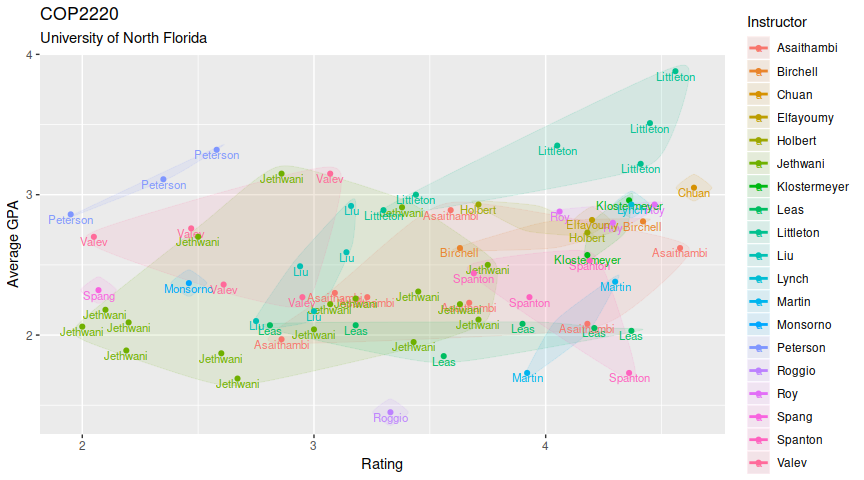
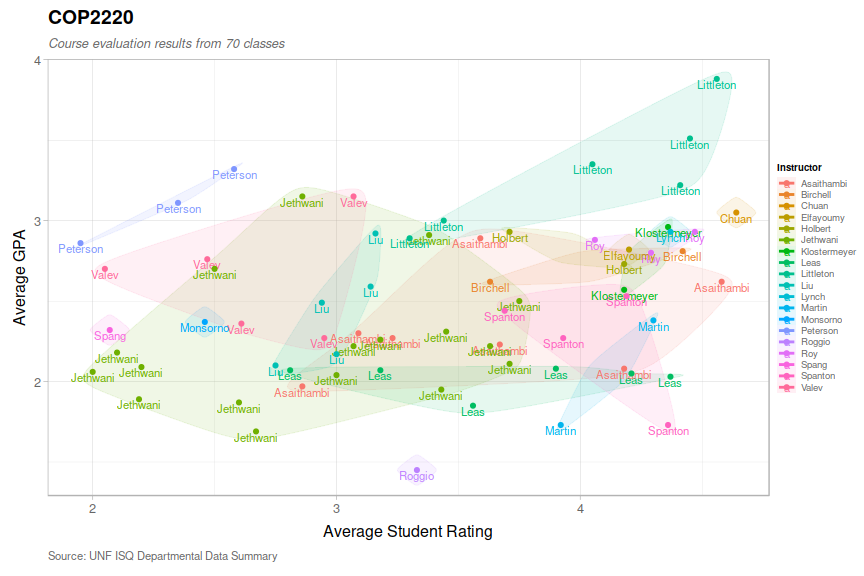
Use the ggplot2bdc theme

diff --git a/README.md b/README.md
@@ -7,6 +7,7 @@ Figures are drawn using ggplot2.
 
 ``` r
 library(ggplot2)
+library(ggplot2bdc)
 library(ggalt)
 library(scales)
 library(dplyr)
@@ -27,14 +28,14 @@ df <- read.csv(paste0("data/", course, ".csv")) %>%
   na.omit()
 ```
 
-|    | course  | term        | instructor | rating | average\_gpa |
-| -- | :------ | :---------- | :--------- | -----: | -----------: |
-| 5  | COP2220 | Spring 2018 | Jethwani   |   3.38 |         2.91 |
-| 6  | COP2220 | Spring 2018 | Jethwani   |   3.71 |         2.11 |
-| 7  | COP2220 | Spring 2018 | Liu        |   3.14 |         2.59 |
-| 8  | COP2220 | Spring 2018 | Jethwani   |   2.86 |         3.15 |
-| 9  | COP2220 | Spring 2018 | Liu        |   3.16 |         2.92 |
-| 10 | COP2220 | Spring 2018 | Monsorno   |   2.46 |         2.37 |
+| course  | term        | instructor | rating | average\_gpa |
+| :------ | :---------- | :--------- | -----: | -----------: |
+| COP2220 | Spring 2018 | Jethwani   |   3.38 |         2.91 |
+| COP2220 | Spring 2018 | Jethwani   |   3.71 |         2.11 |
+| COP2220 | Spring 2018 | Liu        |   3.14 |         2.59 |
+| COP2220 | Spring 2018 | Jethwani   |   2.86 |         3.15 |
+| COP2220 | Spring 2018 | Liu        |   3.16 |         2.92 |
+| COP2220 | Spring 2018 | Monsorno   |   2.46 |         2.37 |
 
 Based on the file name, we can determine if the file represents one
 course and various professors, like above, or one professor and various
@@ -61,13 +62,16 @@ ggplot(df, aes(x = rating, y = average_gpa, color = feature)) +
   scale_size_continuous(labels = percent, range = c(1, 2.5)) +
   guides(size = guide_legend(override.aes = list(linetype = 0))) +
   labs(
-    title = course,
-    subtitle = "University of North Florida",
+    title = paste0(course),
+    subtitle = paste0("Course evaluation results from ", nrow(df), " classes"),
+    caption = "Source: UNF ISQ Departmental Data Summary",
     color = feature,
     fill = feature,
-    x = "Rating",
+    x = "Average Student Rating",
     y = "Average GPA"
-  )
+  ) +
+  theme_bdc_grey(grid.x = TRUE, grid.y = TRUE) +
+  theme(legend.position = "right", legend.direction = "vertical", legend.title.align = 0)
 ```
 
 ![](figs/scatterplot-1.png)<!-- -->
@@ -79,5 +83,5 @@ ggplot(df, aes(x = rating, y = average_gpa, color = feature)) +
 last_plot() + theme(plot.margin = margin(2, 2, 2, 2, "cm"))
 
 # Save as a 15 x 8 inch image
-ggsave(paste0(course, ".png"), width = 15, height = 8, dpi = 100)
+ggsave(paste0(course, ".png"), width = 14, height = 8, dpi = 100)
 ```
